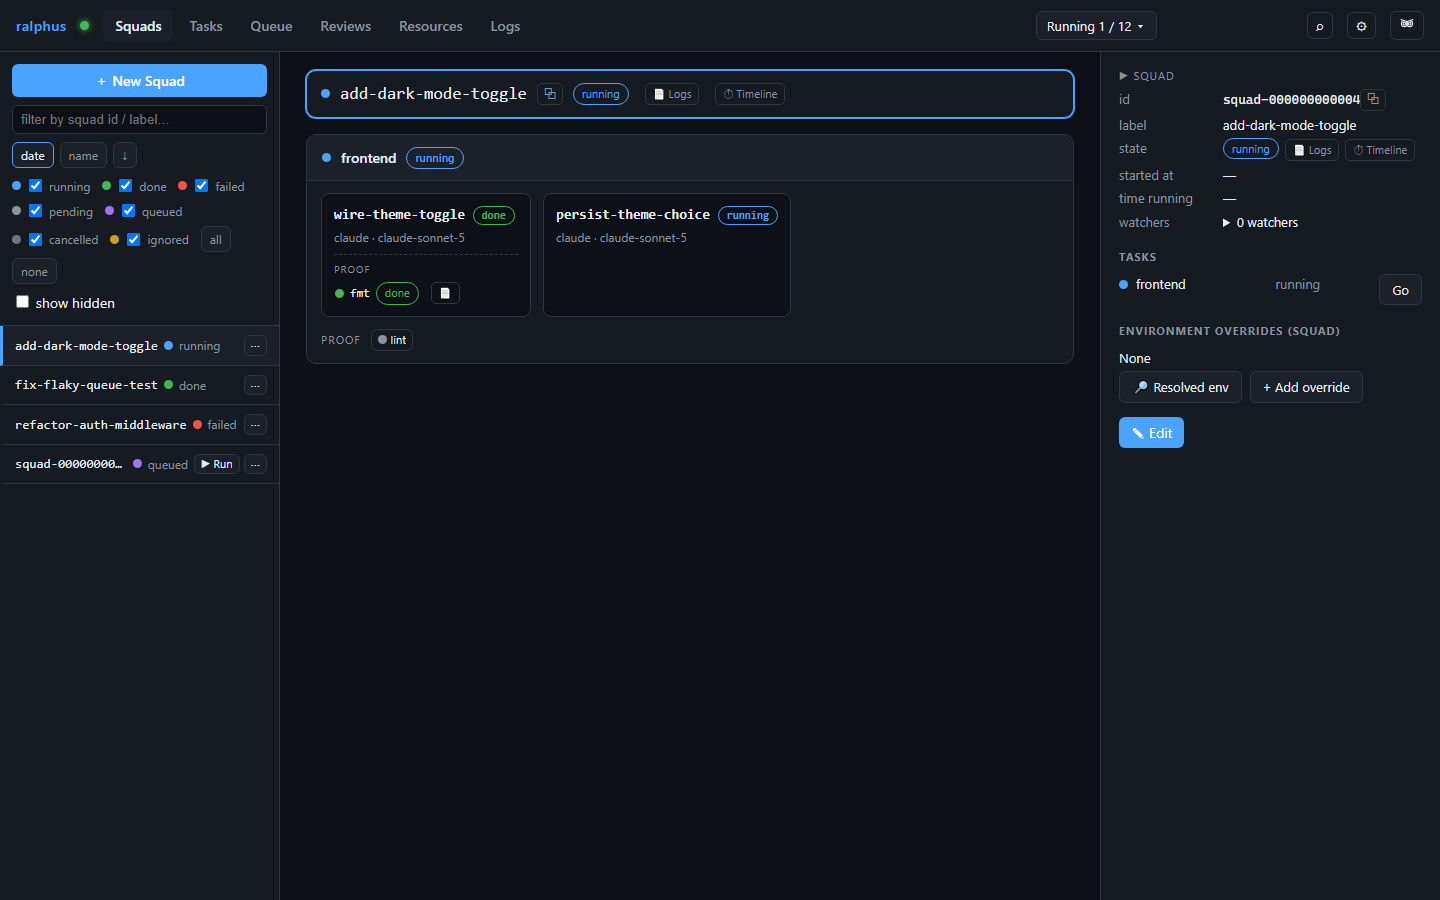
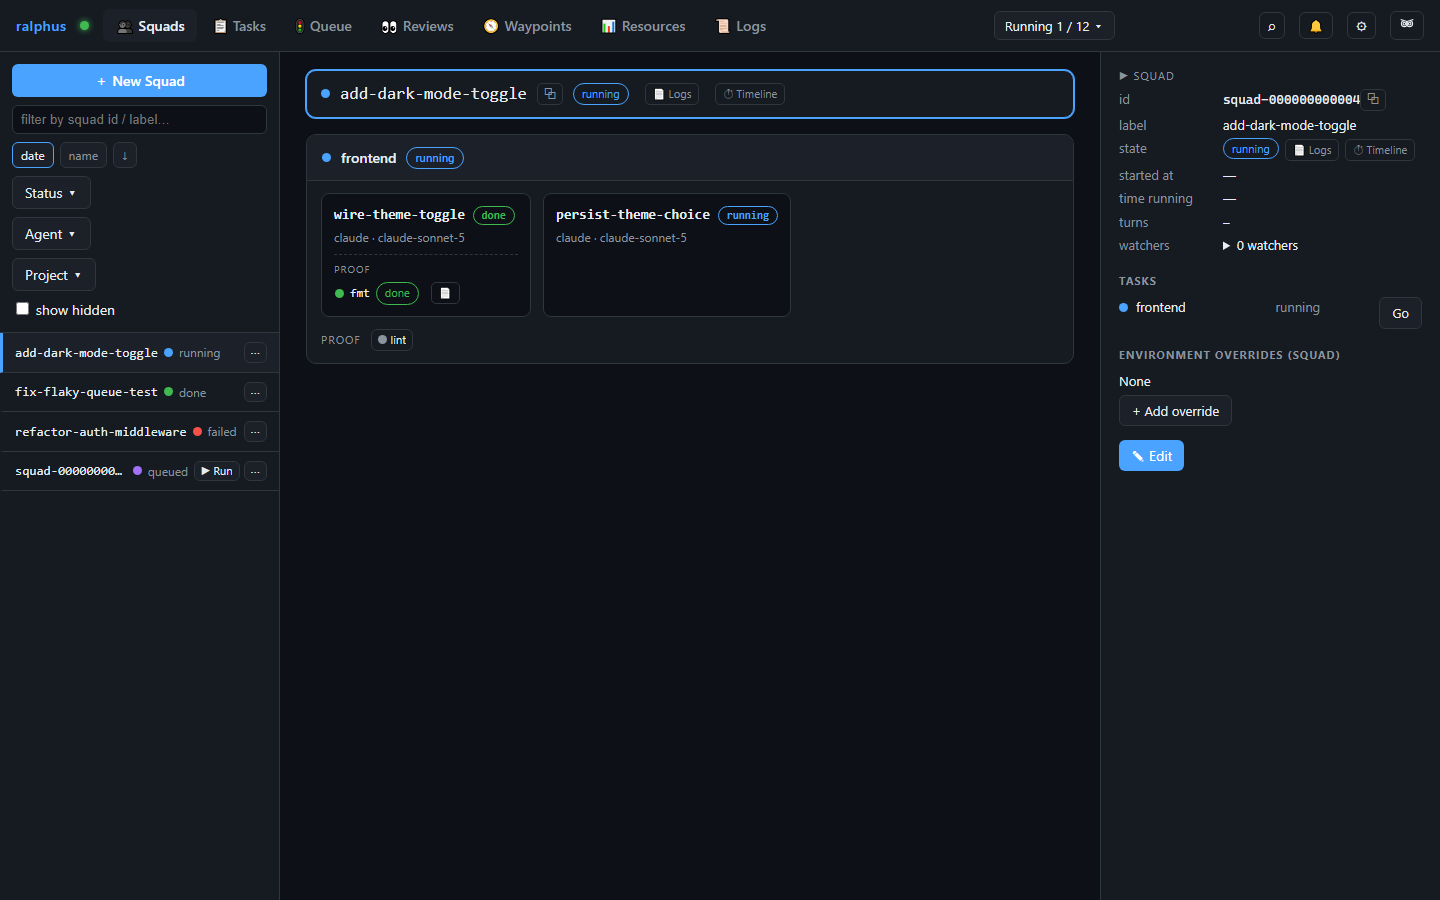
Regenerate the waypoints screenshot for the two-list tab (RAL-400)
The shot still showed the single-list version, and its scenario could no
longer run at all: it waited on `.squad-item` and `.kv-row`, which the
redesigned tab replaced with `.wp-card` and the `.wp-setup` chip row.

The fixture now describes both lists -- an outstanding roster entry, and two
affected entries where one has answered `accepted` and one is still awaiting
an answer -- so the screenshot shows what the tab is actually for rather than
one list doing both jobs. Its alt text said "roster" meaning the affected
list; it now names both.

Also fixes the sidebar reading "2 affecteds", a plural the bulk rename
invented.

diff --git a/librarian/assets/board/82-waypoints.js b/librarian/assets/board/82-waypoints.js
@@ -286,7 +286,8 @@
           </div>
           <div class="wp-card-meta">
             ${renderWaypointSpark(w)}
-            <span data-tip="How many squads and reviews this waypoint tracks.">${w.affected_count} affected${w.affected_count === 1 ? "" : "s"}</span>
+            <span data-tip="How many squads and reviews this waypoint lands on.
+Its roster -- the work that must land for it to be carried out -- is counted separately, on the waypoint itself.">${w.affected_count} affected</span>
             ${w.projects.length ? `<span class="wp-proj" data-tip="Projects inferred from the affected.">${esc(w.projects.join(", "))}</span>` : ""}
           </div>
         </div>`).join("");

diff --git a/cli-py/src/ralphus/docsgen/fixtures.py b/cli-py/src/ralphus/docsgen/fixtures.py
@@ -763,8 +763,9 @@ TASKS_ROUTES: Routes = {
 }
 
 # ---------------------------------------------------------------------------
-# Waypoints scenario (RAL-400) — one open waypoint with a partially delivered
-# squad roster, a delivery event, and a completed-work bearing.
+# Waypoints scenario (RAL-400) — one open waypoint showing both of its lists:
+# a roster (what must land for it to be carried out) and the affected work it
+# lands on, one entry of which has answered and one of which has not.
 # ---------------------------------------------------------------------------
 
 _WAYPOINT_ID = "waypoint-000000000001"
@@ -776,8 +777,17 @@ WAYPOINTS_ROUTES: Routes = {
             "label": "release coordination",
             "state": "open",
             "created_at_ms": 1_783_100_000_000,
-            "roster_count": 2,
+            "affected_count": 2,
             "projects": ["ralphus"],
+            "allow_advisory": True,
+            "updated_at_ms": 1_783_100_002_000,
+            "closed_at_ms": None,
+            "delivery_summary": {
+                "delivered": 1,
+                "via_restack": 0,
+                "failed": 0,
+                "undelivered": 1,
+            },
         }
     ],
     f"/api/waypoints/{_WAYPOINT_ID}": {
@@ -795,7 +805,21 @@ WAYPOINTS_ROUTES: Routes = {
             "failed": 0,
             "undelivered": 1,
         },
+        # What must land for this waypoint to be carried out. Curated by hand;
+        # nothing enrols here from the survey.
         "roster": [
+            {
+                "waypoint_id": _WAYPOINT_ID,
+                "kind": "squad",
+                "entry_id": "squad-000000000009",
+                "note": "the release migration itself",
+                "terminal": False,
+                "created_at_ms": 1_783_100_000_000,
+            },
+        ],
+        # What it lands on. One entry has answered; the other is still held
+        # because it has not.
+        "affected": [
             {
                 "waypoint_id": _WAYPOINT_ID,
                 "kind": "squad",
@@ -804,15 +828,25 @@ WAYPOINTS_ROUTES: Routes = {
                 "delivery_status": "delivered",
                 "survey_verdict": "impacted",
                 "survey_rationale": "The implementation changes the shared release path.",
+                "bearing_decision": "accepted",
+                "bearing_decided_at_ms": 1_783_100_002_000,
+                "stale_at_ms": None,
+                "created_at_ms": 1_783_100_000_000,
+                "updated_at_ms": 1_783_100_002_000,
             },
             {
                 "waypoint_id": _WAYPOINT_ID,
                 "kind": "review",
                 "entry_id": "guardian-000000000001",
-                "mode": "advisory",
+                "mode": "block",
                 "delivery_status": "undelivered",
                 "survey_verdict": None,
                 "survey_rationale": None,
+                "bearing_decision": None,
+                "bearing_decided_at_ms": None,
+                "stale_at_ms": None,
+                "created_at_ms": 1_783_100_000_000,
+                "updated_at_ms": 1_783_100_000_000,
             },
         ],
     },

diff --git a/cli-py/src/ralphus/docsgen/shots.py b/cli-py/src/ralphus/docsgen/shots.py
@@ -267,8 +267,12 @@ def _waypoints_overview(page: Page) -> None:
     ):
         _goto(page, base_url, "#/tasks")
         page.evaluate("showTab('waypoints', true)")
-        page.wait_for_selector("#waypoints .squad-item.selected")
-        page.wait_for_selector("#waypoint-detail .kv-row")
+        # The redesigned sidebar renders `.wp-card`s, not the shared
+        # `.squad-item` rows the first version borrowed.
+        page.wait_for_selector("#waypoints .wp-card.selected")
+        # The redesigned pane renders its scalars as `.wp-setup` chips rather
+        # than key/value rows; wait for an entry so both lists are on screen.
+        page.wait_for_selector("#waypoint-detail .wp-entry")
         _shoot(page, "waypoints-overview")
 
 

diff --git a/docs/site/pages/views/waypoints.md b/docs/site/pages/views/waypoints.md
@@ -8,7 +8,7 @@ squad's tasks, a waypoint tracks impact *across* squads and reviews that
 otherwise have no dependency edge between them — the roster is exactly the
 set of other things a piece of work needs to keep in sync with.
 
-![Waypoints tab showing an open release-coordination waypoint with a partially delivered squad/review roster, delivery feed, and completed-work bearing](../screenshots/waypoints-overview.png)
+![Waypoints tab showing an open release-coordination waypoint: a roster entry still outstanding, two affected entries — one that answered `accepted`, one still awaiting an answer — plus the delivery feed and a completed-work bearing](../screenshots/waypoints-overview.png)
 
 ## Sidebar: filtering by state and project
 
